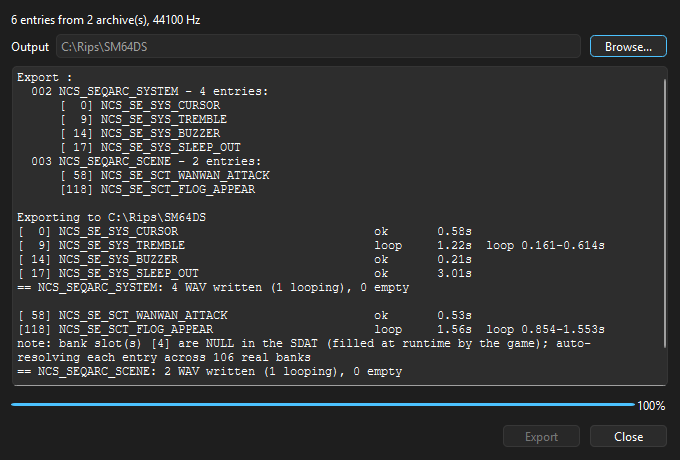
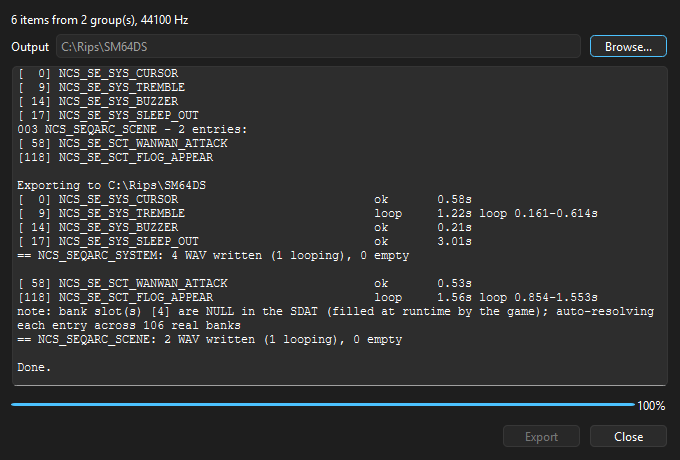
Updated README + screenshots

Changed region(s): [[0.0309, 0.1522, 0.9882, 0.8217], [0.0309, 0.0304, 0.3088, 0.0609]]

diff --git a/README.md b/README.md
@@ -1,6 +1,6 @@
 # DualRip
 
-Rips Nintendo DS sound effects (SSAR) and music (SSEQ) inside `sound_data.sdat` to WAV by emulating the DS sound driver. CLI + GUI.
+Rips Nintendo DS sound effects (SSAR) & music (SSEQ) inside `sound_data.sdat` to WAV by emulating the DS sound driver. CLI + GUI.
 
 ## What you get
 
@@ -9,10 +9,13 @@ Rips Nintendo DS sound effects (SSAR) and music (SSEQ) inside `sound_data.sdat` 
 
 ## Screenshots
 
-Browse the SDAT, preview entries with the built-in player (seek, pause, loop
-on the sound's own loop points):
+Browse the SDAT, preview sound effects with the built-in player (seek, pause, loop on the sound's own loop points):
 
-![Main window](docs/main-window.png)
+![Archive preview](docs/archive-preview.png)
+
+Music sequences with full-length seek bar and live playback:
+
+![Music preview](docs/music-preview.png)
 
 Batch export with per-entry log, loop points and bank auto-resolution notes:
 